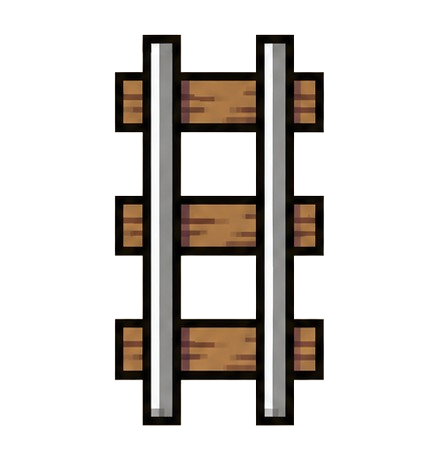
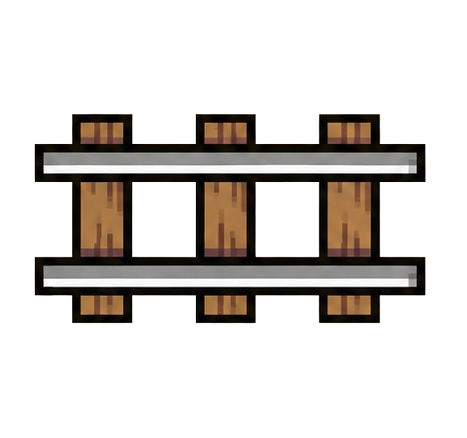
feat: rail
레일 설치구현했고, 기차가 레일 따라가는 것도 구현함

diff --git a/Unrailed/Unrailed/rail.cpp b/Unrailed/Unrailed/rail.cpp
@@ -1,0 +1,109 @@
+#include "Rail.h"
+
+Rail::Rail() {
+    railImage = new Bitmap(L"Image\\train\\rail.png"); 
+    turnImage = new Bitmap(L"Image\\train\\turn rail.png");
+}
+void Rail::PlaceRail(int tileX, int tileY, RailDir dir, int owner) {
+    if (HasRail(tileX, tileY)) return;
+    RailDir autoDir = AutoDetectDir(tileX, tileY, dir); // dir 넘기기
+    rails.push_back({ tileX, tileY, autoDir, owner });
+    UpdateNeighbors(tileX, tileY);
+}
+bool Rail::HasRail(int tileX, int tileY) {
+    for (auto& r : rails)
+        if (r.tileX == tileX && r.tileY == tileY) return true;
+    return false;
+}
+
+RailDir Rail::GetDir(int tileX, int tileY) {
+    for (auto& r : rails)
+        if (r.tileX == tileX && r.tileY == tileY) return r.dir;
+    return RailDir::HORIZONTAL; // 기본값
+}
+void Rail::DrawPreview(Graphics* g, int x, int y, RailDir dir) {
+    GraphicsState state = g->Save();
+    g->TranslateTransform(x + TILE_SIZE / 2.0f, y + TILE_SIZE / 2.0f);
+
+    bool isTurn = (dir == RailDir::TURN_RD || dir == RailDir::TURN_LD ||
+        dir == RailDir::TURN_RU || dir == RailDir::TURN_LU);
+    Bitmap* img = isTurn ? turnImage : railImage;
+
+    switch (dir) {
+    case RailDir::VERTICAL: g->RotateTransform(90);  break;  // ← 추가
+    case RailDir::TURN_RD:  /* 0도 */                break;
+    case RailDir::TURN_LD:  g->RotateTransform(90);  break;
+    case RailDir::TURN_LU:  g->RotateTransform(180); break;
+    case RailDir::TURN_RU:  g->RotateTransform(270); break;
+    default: break;
+    }
+
+    // 반투명하게 그리기
+    ColorMatrix cm = { 1,0,0,0,0, 0,1,0,0,0, 0,0,1,0,0, 0,0,0,0.5f,0, 0,0,0,0,1 };
+    ImageAttributes ia;
+    ia.SetColorMatrix(&cm);
+    g->DrawImage(img, RectF(-TILE_SIZE / 2.0f, -TILE_SIZE / 2.0f, (float)TILE_SIZE, (float)TILE_SIZE),
+        0, 0, (float)img->GetWidth(), (float)img->GetHeight(), UnitPixel, &ia);
+
+    g->Restore(state);
+}
+void Rail::UpdateNeighbors(int tileX, int tileY) {
+    int dx[] = { -1, 1, 0, 0 };
+    int dy[] = { 0, 0, -1, 1 };
+    for (int i = 0; i < 4; i++) {
+        int nx = tileX + dx[i];
+        int ny = tileY + dy[i];
+        for (auto& r : rails) {
+            if (r.tileX == nx && r.tileY == ny) {
+                r.dir = AutoDetectDir(nx, ny, r.dir);  // r.dir 추가
+            }
+        }
+    }
+}
+RailDir Rail::AutoDetectDir(int tileX, int tileY, RailDir baseDir) {
+    bool left = HasRail(tileX - 1, tileY);
+    bool right = HasRail(tileX + 1, tileY);
+    bool up = HasRail(tileX, tileY - 1);
+    bool down = HasRail(tileX, tileY + 1);
+
+    // 수직 레일 설치 시
+    if (baseDir == RailDir::VERTICAL) {
+        if (right && (up || down)) return RailDir::TURN_RD; // 오른쪽에 레일 있으면
+        if (left && (up || down)) return RailDir::TURN_LD;
+        return RailDir::VERTICAL;
+    }
+    // 수평 레일 설치 시
+    if (down && (left || right)) return baseDir == RailDir::HORIZONTAL && right ? RailDir::TURN_RD : RailDir::TURN_LD;
+    if (up && (left || right)) return baseDir == RailDir::HORIZONTAL && right ? RailDir::TURN_RU : RailDir::TURN_LU;
+    return baseDir;
+}
+void Rail::Draw(Graphics* g) {
+    for (auto& r : rails) {
+        float x = (float)(r.tileX * TILE_SIZE);
+        float y = (float)(r.tileY * TILE_SIZE);
+
+        GraphicsState state = g->Save();
+        g->TranslateTransform(x + TILE_SIZE / 2.0f, y + TILE_SIZE / 2.0f);
+
+        bool isTurn = (r.dir == RailDir::TURN_RD || r.dir == RailDir::TURN_LD ||
+            r.dir == RailDir::TURN_RU || r.dir == RailDir::TURN_LU);
+        Bitmap* img = isTurn ? turnImage : railImage;
+
+        switch (r.dir) {
+        case RailDir::VERTICAL: g->RotateTransform(90);  break;  // ← 추가
+        case RailDir::TURN_RD:  /* 0도 */                break;
+        case RailDir::TURN_LD:  g->RotateTransform(90);  break;
+        case RailDir::TURN_LU:  g->RotateTransform(180); break;
+        case RailDir::TURN_RU:  g->RotateTransform(270); break;
+        default: break;
+        }
+
+        g->DrawImage(img, -TILE_SIZE / 2.0f, -TILE_SIZE / 2.0f, (float)TILE_SIZE, (float)TILE_SIZE);
+        g->Restore(state);
+    }
+}
+
+Rail::~Rail() {
+    delete railImage;
+    delete turnImage;
+}

diff --git a/Unrailed/Unrailed/Game.cpp b/Unrailed/Unrailed/Game.cpp
@@ -17,6 +17,18 @@ Game::Game(HWND hWnd) : hWnd(hWnd), gameOver(false), winner(0) {
     train2 = new Train((float)(MAP_WIDTH * TILE_SIZE - 96), 1400, -1, L"Image\\train\\locomoto2.png");
     cam1 = {0, 0};
     cam2 = {0, 0};
+    rail = new Rail();
+    // train1
+    int t1X = (int)(train1->GetPos().x / TILE_SIZE);
+    int t1Y = (int)((train1->GetPos().y + 24) / TILE_SIZE); // +24 = 기차 높이(48)의 절반
+    for (int i = 0; i < 5; i++)
+        rail->PlaceRail(t1X + i, t1Y, RailDir::HORIZONTAL, 1);
+
+    // train2
+    int t2X = (int)(train2->GetPos().x / TILE_SIZE);
+    int t2Y = (int)((train2->GetPos().y + 24) / TILE_SIZE);
+    for (int i = 0; i < 5; i++)
+        rail->PlaceRail(t2X + 2 - i, t2Y, RailDir::HORIZONTAL, 2); 
 }
 
 Game::~Game() {
@@ -25,6 +37,7 @@ Game::~Game() {
     delete map;
     delete train1;
     delete train2;
+    delete rail;
 
     SelectObject(memDC, oldBitmap);
     DeleteObject(memBitmap);
@@ -37,8 +50,31 @@ void Game::Update() {
     p1->Update(GetAsyncKeyState('W'), GetAsyncKeyState('S'), GetAsyncKeyState('A'), GetAsyncKeyState('D'), map);
     p2->Update(GetAsyncKeyState(VK_UP), GetAsyncKeyState(VK_DOWN), GetAsyncKeyState(VK_LEFT), GetAsyncKeyState(VK_RIGHT), map);
    
-    train1->Update();
-    train2->Update();
+    bool rKey = GetAsyncKeyState('R') & 0x8000;
+    if (rKey && !rKeyPrev) {
+        selectedDir1 = (selectedDir1 == RailDir::HORIZONTAL) ? RailDir::VERTICAL : RailDir::HORIZONTAL;
+    }
+    rKeyPrev = rKey;
+
+    bool twoKey = GetAsyncKeyState('2') & 0x8000;
+    if (twoKey && !twoKeyPrev) {
+        selectedDir2 = (selectedDir2 == RailDir::HORIZONTAL) ? RailDir::VERTICAL : RailDir::HORIZONTAL;
+    }
+    twoKeyPrev = twoKey;
+    // 설치
+    if (GetAsyncKeyState('E') & 0x8000) {
+        int tileX = (int)(p1->GetPos().x / TILE_SIZE);
+        int tileY = (int)(p1->GetPos().y / TILE_SIZE);
+        rail->PlaceRail(tileX, tileY, selectedDir1, 1);
+    }
+
+    if (GetAsyncKeyState('1') & 0x8000) {
+        int tileX = (int)(p2->GetPos().x / TILE_SIZE);
+        int tileY = (int)(p2->GetPos().y / TILE_SIZE);
+        rail->PlaceRail(tileX, tileY, selectedDir2, 2);
+    }
+    train1->Update(rail);
+    train2->Update(rail);
 
     if (train1->IsFinished() && !train2->IsFinished()) { gameOver = true; winner = 1; }
     else if (train2->IsFinished() && !train1->IsFinished()) { gameOver = true; winner = 2; }
@@ -73,8 +109,16 @@ void Game::Draw(HDC hDC) {
     g1.Clear(Color(255, 255, 255));
     g1.TranslateTransform(-cam1.x, -cam1.y);
     map->Draw(&g1, cam1, SCREEN_WIDTH, halfH);
+    //미리보기
+    int preX1 = (int)(p1->GetPos().x / TILE_SIZE) * TILE_SIZE;
+    int preY1 = (int)(p1->GetPos().y / TILE_SIZE) * TILE_SIZE;
+    SolidBrush previewBrush1(Color(120, 255, 255, 0));
+    g1.FillRectangle(&previewBrush1, (float)preX1, (float)preY1, (float)TILE_SIZE, (float)TILE_SIZE);
+    rail->DrawPreview(&g1, preX1, preY1, selectedDir1);
+
     p1->Draw(&g1, cam1);
     p2->Draw(&g1, cam1);
+    rail->Draw(&g1);
     train1->Draw(&g1);
     train2->Draw(&g1);
     // --- View 2 (Player 2) ---
@@ -83,8 +127,16 @@ void Game::Draw(HDC hDC) {
     g2.TranslateTransform(0, (REAL)halfH);
     g2.TranslateTransform(-cam2.x, -cam2.y);
     map->Draw(&g2, cam2, SCREEN_WIDTH, halfH);
+    //미리보기
+    int preX2 = (int)(p2->GetPos().x / TILE_SIZE) * TILE_SIZE;
+    int preY2 = (int)(p2->GetPos().y / TILE_SIZE) * TILE_SIZE;
+    SolidBrush previewBrush2(Color(120, 0, 255, 255));
+    g2.FillRectangle(&previewBrush2, (float)preX2, (float)preY2, (float)TILE_SIZE, (float)TILE_SIZE);
+    rail->DrawPreview(&g2, preX2, preY2, selectedDir2);
+
     p1->Draw(&g2, cam2);
     p2->Draw(&g2, cam2);
+    rail->Draw(&g2);
     train1->Draw(&g2);
     train2->Draw(&g2);
     if (gameOver) {

diff --git a/Unrailed/Unrailed/Train.cpp b/Unrailed/Unrailed/Train.cpp
@@ -1,7 +1,7 @@
 #include "Train.h"
 
 Train::Train(float x, float y, int direction, const wchar_t* imagePath)
-    : pos({ x, y }), speed(5.0f), heat(0.0f), dir(direction), finished(false) {
+    : pos({ x, y }), speed(5.0f), heat(0.0f), dirX((float)direction), dirY(0.0f), finished(false) {
     image = new Bitmap(imagePath);
     lastTime = GetTickCount64();
 }
@@ -12,27 +12,53 @@ Train::~Train()
    
 }
 
-void Train::Update() {
+void Train::UpdateDirection(RailDir rd) {
+    switch (rd) {
+    case RailDir::HORIZONTAL: dirY = 0;  break;
+    case RailDir::VERTICAL:   dirX = 0;  break;
+    case RailDir::TURN_RD:
+        if (dirX < 0) { dirX = 0;  dirY = 1; }
+        else if (dirY < 0) { dirX = 1;  dirY = 0; }
+        break;
+    case RailDir::TURN_LD:
+        if (dirX > 0) { dirX = 0;  dirY = 1; }
+        else if (dirY < 0) { dirX = -1; dirY = 0; }
+        break;
+    case RailDir::TURN_RU:
+        if (dirX < 0) { dirX = 0;  dirY = -1; }
+        else if (dirY > 0) { dirX = 1;  dirY = 0; }
+        break;
+    case RailDir::TURN_LU:
+        if (dirX > 0) { dirX = 0;  dirY = -1; }
+        else if (dirY > 0) { dirX = -1; dirY = 0; }
+        break;
+    }
+}
+void Train::Update(Rail* rail) {
     if (finished) return;
-
-    // 과열 상태면 이동 정지 (열은 계속 쌓임)
     if (!IsOverheated()) {
         ULONGLONG now = GetTickCount64();
-        float     delta = (now - lastTime) / 1000.0f;
+        float delta = (now - lastTime) / 1000.0f;
         lastTime = now;
 
-        pos.x += speed * dir * delta;
+        // 현재 타일 확인
+        int tileX = (int)((pos.x + 48) / TILE_SIZE);
+        int tileY = (int)((pos.y + 24) / TILE_SIZE);
 
-        // 오른쪽 끝 도달 (기차 1)
-        if (dir == 1 && pos.x >= MAP_WIDTH * TILE_SIZE)
+        if (rail->HasRail(tileX, tileY)) {
+            // 현재 타일 레일 방향으로 방향 업데이트 후 이동
+            UpdateDirection(rail->GetDir(tileX, tileY));
+            pos.x += speed * dirX * delta;
+            pos.y += speed * dirY * delta;
+            wchar_t buf[200];
+            swprintf(buf, 200, L"trainTileX=%d trainTileY=%d hasRail=%d\n",
+                tileX, tileY, rail->HasRail(tileX, tileY));
+            OutputDebugStringW(buf);
+        }
+        else {
             finished = true;
-
-        // 왼쪽 끝 도달 (기차 2)
-        if (dir == -1 && pos.x <= 0)
-            finished = true;
+        }
     }
-
-    // 열 누적
     heat += HEAT_RATE;
     if (heat > MAX_HEAT) heat = MAX_HEAT;
 }

diff --git a/Unrailed/Unrailed/rail.h b/Unrailed/Unrailed/rail.h
@@ -1,0 +1,32 @@
+#pragma once
+#include <vector>
+#include "Common.h"
+#include <gdiplus.h>
+using namespace Gdiplus;
+
+enum class RailDir { HORIZONTAL, VERTICAL, TURN_RD, TURN_LD, TURN_RU, TURN_LU };
+
+class Rail {
+public:
+    void PlaceRail(int tileX, int tileY, RailDir dir, int owner);
+    bool HasRail(int tileX, int tileY);
+    RailDir GetDir(int tileX, int tileY);
+    void Draw(Graphics* g);
+    void DrawPreview(Graphics* g, int x, int y, RailDir dir);
+    Rail();
+    ~Rail();
+    int GetCount() { return (int)rails.size(); }
+private:
+    struct RailData {
+       
+        int tileX, tileY;
+        RailDir dir;
+        int owner;
+    };
+    std::vector<RailData> rails;
+    Bitmap* railImage;
+    Bitmap* turnImage;
+
+    RailDir AutoDetectDir(int tileX, int tileY, RailDir baseDir);  // RailDir baseDir 추가
+    void UpdateNeighbors(int tileX, int tileY);
+};

diff --git a/Unrailed/Unrailed/Train.h b/Unrailed/Unrailed/Train.h
@@ -1,13 +1,13 @@
 #pragma once
 #include "Common.h"
+#include "Rail.h"
 
 class Train {
 public:
-    // direction: +1 = 왼→오른쪽,  -1 = 오른→왼쪽
     Train(float x, float y, int direction, const wchar_t* imagePath);
     ~Train();
 
-    void Update();
+    void Update(Rail* rail);
     void Draw(Graphics* g);
     void Cool(float amount);
 
@@ -15,12 +15,13 @@ public:
     float GetHeat()      const { return heat; }
     bool  IsOverheated() const { return heat >= MAX_HEAT; }
     bool  IsFinished()   const { return finished; }
+    void UpdateDirection(RailDir rd);
 
 private:
-    Vec2  pos;
+    float snapToTile(float v) { return (float)((int)(v / TILE_SIZE) * TILE_SIZE); }    Vec2  pos;
     float speed;
     float heat;
-    int   dir;       // +1 or -1
+    float dirX, dirY;
     bool  finished;
     ULONGLONG lastTime;
     Bitmap* image;

diff --git a/Unrailed/Unrailed/Game.h b/Unrailed/Unrailed/Game.h
@@ -3,6 +3,7 @@
 #include "Player.h"
 #include "Map.h"
 #include "Train.h"
+#include "Rail.h"
 
 class Game {
 public:
@@ -22,14 +23,17 @@ private:
     Train* train2;   // 오른에서왼쪽
     Camera cam1;
     Camera cam2;
+    Rail* rail;
 
     bool    gameOver;
     int     winner;   // 1 or 2
-
+    bool rKeyPrev = false;
+    bool twoKeyPrev = false;
     HDC memDC;
     HBITMAP memBitmap;
     HBITMAP oldBitmap;
-
+    RailDir selectedDir1 = RailDir::HORIZONTAL;
+    RailDir selectedDir2 = RailDir::HORIZONTAL;
     static void ClampCamera(Camera& cam, int viewW, int viewH);
     void DrawVictoryScreen(Graphics* g);
 };
